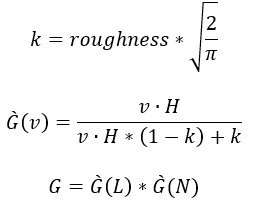
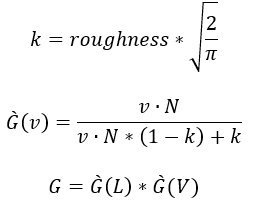
Fixes for Appendix B: BRDF Implementation.
- Clarify V and L vector directions and normalization.
- Correct Geometric Occlusion equations.

Changed region(s): [[0.6314, 0.4683, 0.7137, 0.5561], [0.4118, 0.6146, 0.4667, 0.7024], [0.6863, 0.878, 0.7412, 0.9659]]

diff --git a/specification/2.0/README.md b/specification/2.0/README.md
@@ -3907,8 +3907,8 @@ As previously defined
 *&alpha;* = `roughness ^ 2`
 
 Additionally,  
-*V* is the eye vector to the shading location  
-*L* is the vector from the light to the shading location  
+*V* is the normalized vector from the shading location to the eye  
+*L* is the normalized vector from the shading location to the light  
 *N* is the surface normal in the same space as the above values  
 *H* is the half vector, where *H* = normalize(*L*+*V*)  
 
